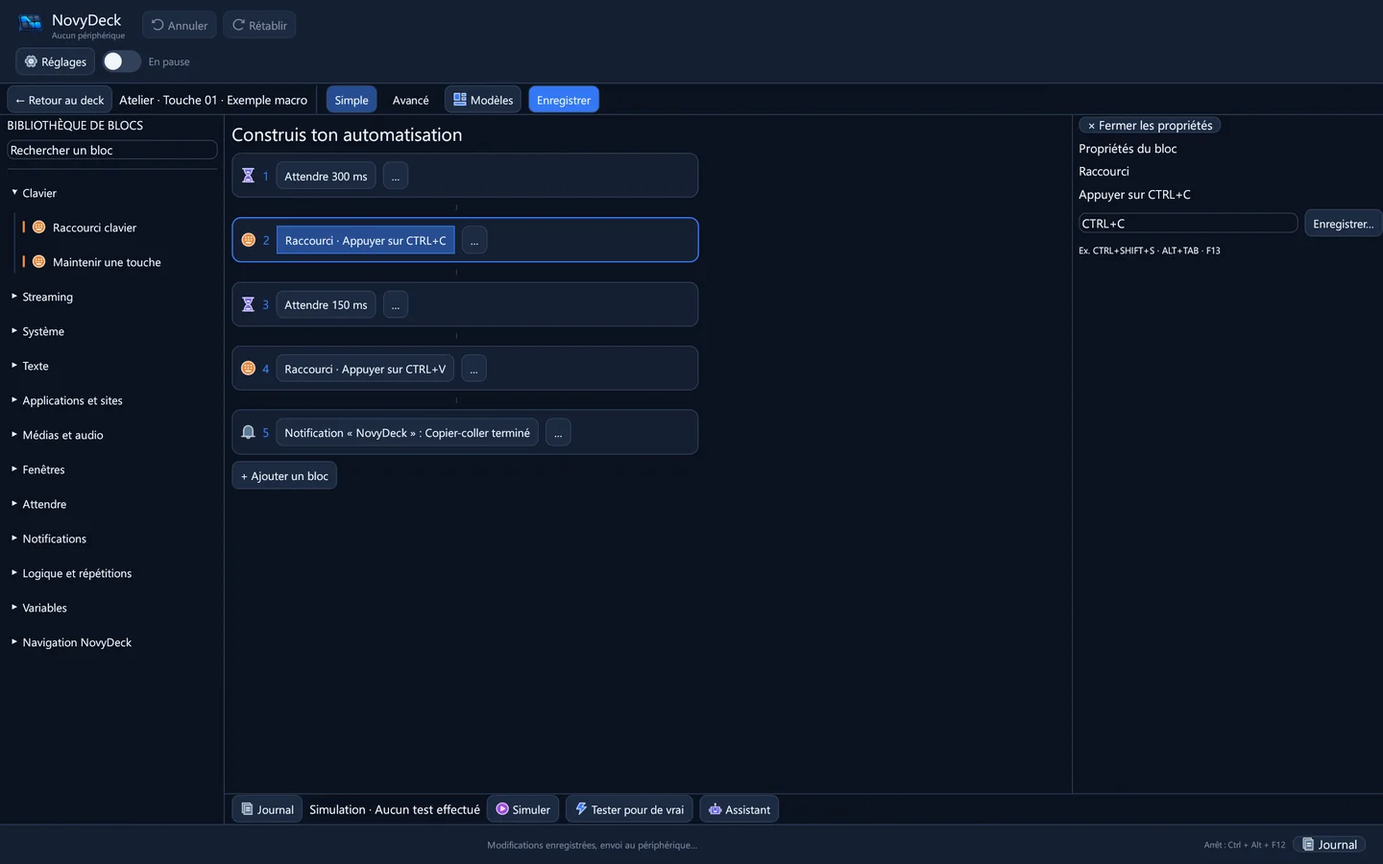
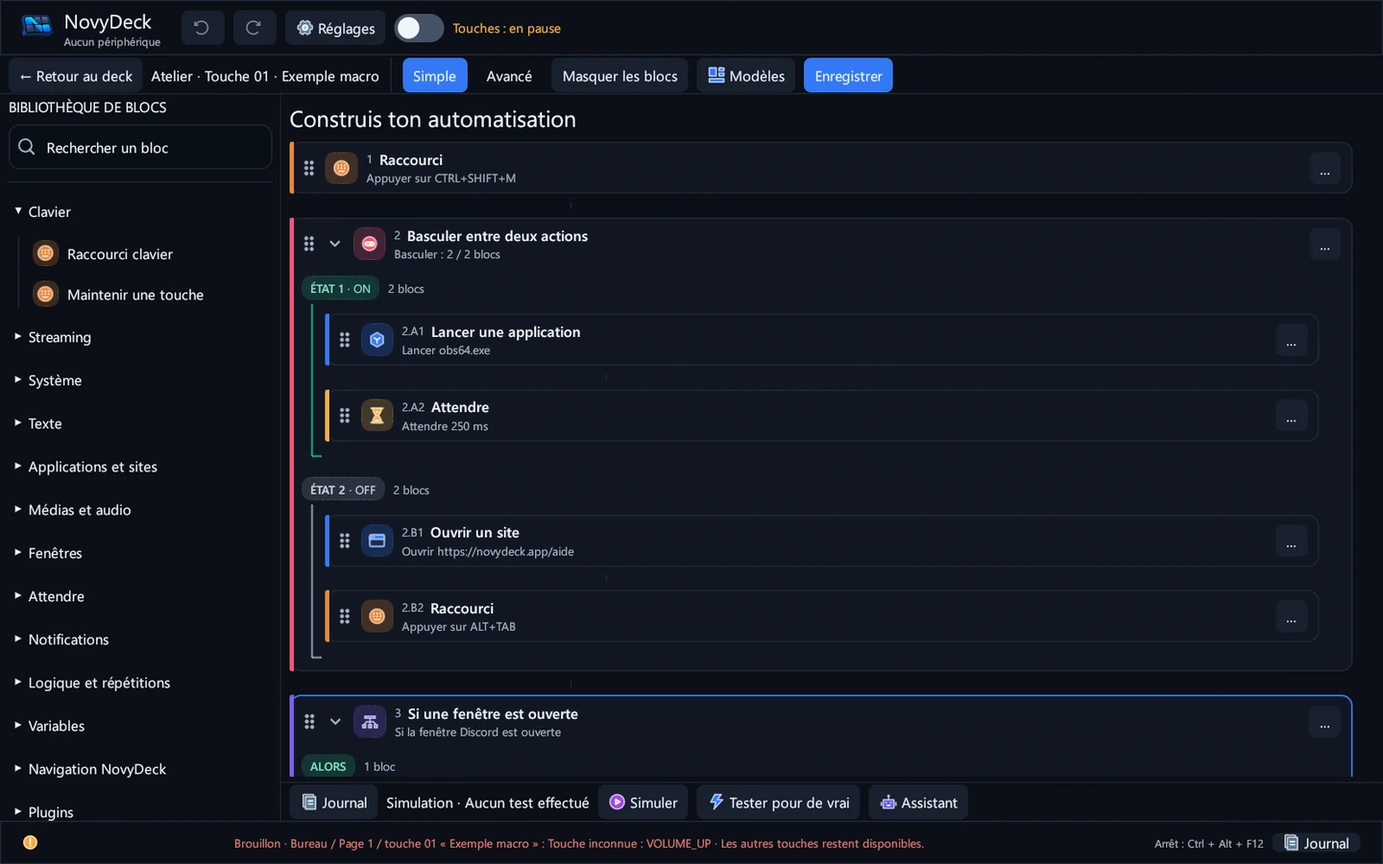
feat(website): present NovyDeck 0.16.0 Block Workshop redesign and hardware fixes

diff --git a/website/launch/src/components/LaunchExperience.tsx b/website/launch/src/components/LaunchExperience.tsx
@@ -8,8 +8,8 @@ import { ArrowDown, ArrowUpRight, Check, ChevronRight, Download, Menu, Pause, Pl
 import AnimationEngine from "./AnimationEngine";
 
 const DeckScene = dynamic(() => import("./DeckScene"), { ssr: false });
-const release = "https://github.com/HatiFlash/NovyDeck/releases/download/v0.15.1/NovyDeck-0.15.1-Setup.exe";
-const releases = "https://github.com/HatiFlash/NovyDeck/releases/tag/v0.15.1";
+const release = "https://github.com/HatiFlash/NovyDeck/releases/download/v0.16.0/NovyDeck-0.16.0-Setup.exe";
+const releases = "https://github.com/HatiFlash/NovyDeck/releases/tag/v0.16.0";
 const images = {
   keys: "assets/main-hi.webp",
   macros: "assets/atelier.webp",
@@ -25,7 +25,7 @@ const copy = {
   fr: {
     skip: "Aller au contenu", nav: ["Produit", "Fonctionnalités", "Atelier", "Plugins"],
     download: "Télécharger", preview: "Découvrir le produit", locale: "EN", menu: "Ouvrir le menu", close: "Fermer le menu",
-    heroOver: "NOVYDECK / V0.15.1 — WINDOWS", heroTitle1: "Votre deck.", heroTitle2: "Vos règles.",
+    heroOver: "NOVYDECK / V0.16.0 — WINDOWS", heroTitle1: "Votre deck.", heroTitle2: "Vos règles.",
     heroLead: "Donnez une forme à chaque idée. Une application native pour créer vos touches, orchestrer vos actions et étendre votre deck — sans renoncer au contrôle.",
     heroSupport: "FIFINE AmpliGame D6 · Elgato Stream Deck testés", heroCaption: "La liberté de créer, touche après touche.",
     scroll: "Défiler pour explorer", chapter: "CHAPITRE", productOver: "UN OUTIL, TOUT UN UNIVERS", productTitle: "Le bureau devient votre terrain de jeu.",
@@ -36,10 +36,13 @@ const copy = {
       { n: "03 / L’IDENTITÉ", title: "Une interface qui vous ressemble.", body: "Personnalisez les faces ON/OFF et choisissez votre thème. NovyDeck distingue l’état confirmé par un plugin d’une simple bascule locale.", note: "Aucun état inconnu n’est présenté comme confirmé." },
     ],
     sceneLabel: "Reconstitution 3D illustrative du FIFINE D6 · textures issues du projet", sceneFoot: "Interaction liée au défilement · sans vidéo simulant une interface",
-    showcaseOver: "VOIR, PUIS AGIR", showcaseTitle: "Le détail change tout.", showcaseLead: "Nouveauté 0.15.1 : choisissez Action 1 ou Action 2 dans Actions ON/OFF ; Action 1 conserve l’action précédente et Action 2 se configure sans ouvrir l’Atelier. Le menu « … » d’une action, à la racine comme dans un bloc Atelier imbriqué, ouvre Supprimer. Captures authentiques du harnais Windows, rendues hors écran ; aucune preuve d’essai sur D6 physique. Les huit onglets suivants conservent des vues historiques.",
+    showcaseOver: "VOIR, PUIS AGIR", showcaseTitle: "Le détail change tout.", showcaseLead: "Nouveauté 0.16.0 : refonte complète de l’Atelier de blocs (glisser-déposer intuitif avec poignée soignée et carte fantôme, cartes compactes et colorées par catégorie, branches visuelles repliables, recherche instantanée et favoris dans la bibliothèque) et correction matérielle des touches ON/OFF (suppression du rond rouge et du flash transitoire). Captures authentiques du harnais Windows, rendues hors écran ; aucune preuve d’essai sur D6 physique. Les onglets suivants conservent des vues historiques.",
     showcase: [
-      { label: "Actions ON/OFF", number: "01", title: "Deux actions, à portée de touche.", body: "Dans Actions ON/OFF, Action 1 conserve l’ancienne action ; configurez Action 2 sans passer par l’Atelier.", detail: "Capture authentique du harnais Windows, rendue hors écran ; aucun D6 physique connecté.", img: "assets/v0151-onoff-fr.webp", alt: "Capture hors écran authentique de NovyDeck 0.15.1 en français : page principale Actions ON/OFF avec Action 1 et Action 2 configurables." },
-      { label: "Supprimer dans l’Atelier", number: "02", title: "Supprimer depuis le menu d’action.", body: "Le menu « … » ouvre Supprimer, à la racine comme dans un bloc Atelier imbriqué.", detail: "Capture authentique du harnais Windows, rendue hors écran ; aucun D6 physique connecté.", img: "assets/v0151-workshop-fr.webp", alt: "Capture hors écran authentique de NovyDeck 0.15.1 en français : menu « … » d’un bloc Atelier imbriqué avec Supprimer." },
+      { label: "Atelier 0.16", number: "01", title: "L’Atelier de blocs repensé.", body: "Cartes compactes, pastille et liseré par catégorie, branches avec liaisons visuelles et conteneurs repliables.", detail: "Capture authentique du harnais Windows, rendue hors écran ; aucun D6 physique connecté.", img: "assets/v016-workshop-cards-fr.webp", alt: "Capture hors écran de NovyDeck 0.16.0 : Atelier de blocs avec cartes compactes et branches repliables." },
+      { label: "Glisser-déposer", number: "02", title: "Un déplacement fluide et naturel.", body: "Poignée discrète en points ronds, curseur grab/grabbing, carte fantôme et indicateur clair « Déposer ici » sans sélection parasite.", detail: "Capture authentique du harnais Windows, rendue hors écran ; aucun D6 physique connecté.", img: "assets/v016-workshop-dnd-fr.webp", alt: "Capture hors écran de NovyDeck 0.16.0 : glisser-déposer dans l’Atelier avec carte fantôme et emplacement de dépôt." },
+      { label: "Bibliothèque", number: "03", title: "Recherche instantanée et favoris.", body: "Recherche insensible aux accents et à la casse, blocs favoris épinglés en tête, et actions groupées par plugin avec bouton Réglages.", detail: "Capture authentique du harnais Windows, rendue hors écran ; aucun D6 physique connecté.", img: "assets/v016-workshop-library-fr.webp", alt: "Capture hors écran de NovyDeck 0.16.0 : bibliothèque de blocs avec recherche et actions de plugins." },
+      { label: "Actions ON/OFF", number: "04", title: "Deux actions, à portée de touche.", body: "Dans Actions ON/OFF, Action 1 conserve l’ancienne action ; configurez Action 2 sans passer par l’Atelier. Le rond rouge et le flash sont éliminés.", detail: "Capture authentique du harnais Windows, rendue hors écran ; aucun D6 physique connecté.", img: "assets/v0151-onoff-fr.webp", alt: "Capture hors écran authentique de NovyDeck en français : page principale Actions ON/OFF avec Action 1 et Action 2 configurables." },
+      { label: "Supprimer dans l’Atelier", number: "05", title: "Supprimer depuis le menu d’action.", body: "Le menu « … » ouvre Supprimer, à la racine comme dans un bloc Atelier imbriqué.", detail: "Capture authentique du harnais Windows, rendue hors écran ; aucun D6 physique connecté.", img: "assets/v0151-workshop-fr.webp", alt: "Capture hors écran authentique de NovyDeck 0.15.1 en français : menu « … » d’un bloc Atelier imbriqué avec Supprimer." },
       { label: "Assistant 0.15", number: "03", title: "Une proposition, à relire.", body: "L’assistant affiche une proposition sous forme de blocs ; vérifiez-la avant usage.", detail: "Capture hors écran ; la demande d’exemple est en français et aucun modèle n’est exécuté en direct.", img: "assets/v015-assistant-fr.webp", alt: "Capture française de l’assistant NovyDeck 0.15 avec demande d’exemple en français ; démonstration hors ligne, sans modèle en direct." },
       { label: "Précision plugin 0.15", number: "04", title: "Préciser la cible du plugin.", body: "L’assistant peut demander une précision avant de proposer une action de plugin.", detail: "Dialogue de démonstration hors ligne avec fixture SoundPad inerte ; aucune action réelle ni modèle en direct.", img: "assets/v015-question-fr.webp", alt: "Dialogue de clarification avec fixture plugin SoundPad inerte dans NovyDeck 0.15 ; démonstration hors ligne." },
       { label: "Apparence 0.15", number: "05", title: "Une apparence à votre mesure.", body: "Retrouvez les réglages d’apparence directement dans l’inspecteur.", detail: "Capture réelle de l’interface 0.15 en français, rendue hors écran ; aucun périphérique connecté.", img: "assets/v015-appearance-fr.webp", alt: "Capture hors écran des réglages Apparence de NovyDeck 0.15 en français, sans périphérique connecté." },
@@ -49,7 +52,7 @@ const copy = {
       { label: "Atelier 0.14", number: "09", title: "Glissez, imbriquez, dupliquez.", body: "Réorganisez les blocs par glisser-déposer, placez-les dans Alors, Sinon ou Répéter et maintenez Ctrl pour dupliquer pendant le glissement.", detail: "Capture réelle de l’Atelier en français, rendue hors écran ; aucun D6 physique testé.", img: "assets/v014-workshop-fr.webp", alt: "Capture française de l’Atelier 0.14 avec bibliothèque, blocs et branches Alors/Sinon" },
       { label: "Quoi de neuf", number: "10", title: "Une mise à jour, expliquée.", body: "L’interface actualisée présente les nouveautés dans une fenêtre Quoi de neuf et sépare téléchargement, vérification, installation et relance.", detail: "Capture réelle de la fenêtre Quoi de neuf 0.14.0 en français.", img: "assets/v014-whats-new-fr.webp", offer: "assets/v014-update-fr.webp", alt: "Fenêtre Quoi de neuf présentant les nouveautés 0.14.0" },
     ],
-    workflowOver: "ATELIER / 0.14.0", workflowTitle: "Glissez les blocs. Gardez la main.", workflowLead: "Réordonnez ou imbriquez les blocs dans Alors, Sinon ou Répéter ; maintenez Ctrl pendant le glissement pour dupliquer. Annulez ou rétablissez vos changements.",
+    workflowOver: "ATELIER / 0.16.0", workflowTitle: "Glissez les blocs. Gardez la main.", workflowLead: "Réordonnez ou imbriquez les blocs dans Alors, Sinon ou Répéter ; maintenez Ctrl pendant le glissement pour dupliquer. Annulez ou rétablissez vos changements.",
     flowLabels: ["Déclencheur", "Attendre", "Raccourci", "Condition", "Notification"], flowValues: ["Appui sur la touche", "300 ms", "Ctrl + C", "Application active ?", "Action terminée"],
     workflowNote: "Illustration de la logique de l’Atelier. Les blocs visibles dans la capture ci-dessous proviennent de l’application.", workflowShot: "Capture réelle de l’Atelier de blocs de NovyDeck.",
     themesOver: "APPARENCE", themesTitle: "Le fond change. Pas votre façon de travailler.", themesLead: "Un thème sombre pour la concentration, un thème clair pour la netteté. Le deck et vos images restent les vôtres.", dark: "Sombre", light: "Clair", themesAltDark: "Interface NovyDeck en thème sombre", themesAltLight: "Interface NovyDeck en thème clair", themeCaption: "Captures réelles du profil de démonstration.",
@@ -61,12 +64,12 @@ const copy = {
     bridgeOver: "VOTRE ENVIRONNEMENT, VOS CHOIX", bridgeTitle: "Des liens utiles. Pas une boîte noire.", bridgeLead: "Home Assistant et Google Assistant passent par des plugins. Le serveur MCP propose des opérations à votre client compatible ; l’utilisateur garde la validation.",
     bridgeNote: "Les intégrations tierces peuvent nécessiter leurs propres services et comptes.",
     filmOver: "LE FILM", filmTitle: "Voyez le produit prendre forme.", filmLead: "Un extrait 1080p de la vidéo officielle. Le D6 est une animation 3D ; les captures de l’application sont réelles.", play: "Lire le film", pause: "Mettre en pause",
-    ctaOver: "À VOUS DE JOUER", ctaTitle: "Donnez un nouveau sens à chaque touche.", ctaLead: "NovyDeck est libre et gratuit. Téléchargez l’installateur Windows 0.15.1 ou consultez les autres fichiers publiés.", other: "Autres téléchargements", ctaSmall: "Windows 10/11 · 64 bits · licence MIT · FIFINE D6 et Elgato Stream Deck testés", footer: "Logiciel libre. Conçu pour que chaque touche soit à vous.", source: "Code source", top: "Retour en haut", file: "Installateur Windows v0.15.1",
+    ctaOver: "À VOUS DE JOUER", ctaTitle: "Donnez un nouveau sens à chaque touche.", ctaLead: "NovyDeck est libre et gratuit. Téléchargez l’installateur Windows 0.16.0 ou consultez les autres fichiers publiés.", other: "Autres téléchargements", ctaSmall: "Windows 10/11 · 64 bits · licence MIT · FIFINE D6 et Elgato Stream Deck testés", footer: "Logiciel libre. Conçu pour que chaque touche soit à vous.", source: "Code source", top: "Retour en haut", file: "Installateur Windows v0.16.0",
   },
   en: {
     skip: "Skip to content", nav: ["Product", "Features", "Workshop", "Plugins"],
     download: "Download", preview: "Explore the product", locale: "FR", menu: "Open menu", close: "Close menu",
-    heroOver: "NOVYDECK / V0.15.1 — WINDOWS", heroTitle1: "Your deck.", heroTitle2: "Your rules.",
+    heroOver: "NOVYDECK / V0.16.0 — WINDOWS", heroTitle1: "Your deck.", heroTitle2: "Your rules.",
     heroLead: "Give every idea a place. A native app to design keys, orchestrate actions and extend your deck — while keeping control.",
     heroSupport: "FIFINE AmpliGame D6 · tested Elgato Stream Deck", heroCaption: "The freedom to create, one key at a time.",
     scroll: "Scroll to explore", chapter: "CHAPTER", productOver: "ONE TOOL, A WHOLE UNIVERSE", productTitle: "Make your desktop your playground.",
@@ -77,10 +80,13 @@ const copy = {
       { n: "03 / IDENTITY", title: "An interface that feels like yours.", body: "Customize ON/OFF key faces and pick a theme. NovyDeck distinguishes a plugin-confirmed state from a local toggle.", note: "An unknown state is never presented as confirmed." },
     ],
     sceneLabel: "Illustrative 3D reconstruction of the FIFINE D6 · textures from the project", sceneFoot: "Scroll-linked interaction · no simulated app video",
-    showcaseOver: "SEE, THEN DO", showcaseTitle: "The details make the difference.", showcaseLead: "New in 0.15.1: choose Action 1 or Action 2 under Actions ON/OFF; Action 1 keeps the previous action, and Action 2 can be configured without opening the Workshop. The action’s ‘…’ menu opens Delete at the root and inside a nested Workshop block. Authentic Windows harness captures rendered off-screen; they do not evidence testing on a physical D6. The eight following tabs retain historic views.",
+    showcaseOver: "SEE, THEN DO", showcaseTitle: "The details make the difference.", showcaseLead: "New in 0.16.0: complete Block Workshop redesign (intuitive drag-and-drop with grab handle and ghost card, compact category-colored cards, visual collapsible branches, instant search and favorites in the library) and hardware ON/OFF key fixes (elimination of the persistent red dot and transient flash). Authentic Windows harness captures rendered off-screen; they do not evidence testing on a physical D6. Following tabs retain historic views.",
     showcase: [
-      { label: "ON/OFF actions", number: "01", title: "Two actions, one key away.", body: "Under Actions ON/OFF, Action 1 keeps the previous action; configure Action 2 without opening the Workshop.", detail: "Authentic Windows harness capture rendered off-screen; no physical D6 connected.", img: "assets/v0151-onoff-en.webp", alt: "Authentic off-screen NovyDeck 0.15.1 English capture: main Actions ON/OFF page with configurable Action 1 and Action 2." },
-      { label: "Delete in Workshop", number: "02", title: "Delete from the action menu.", body: "The ‘…’ menu opens Delete at the root and inside a nested Workshop block.", detail: "Authentic Windows harness capture rendered off-screen; no physical D6 connected.", img: "assets/v0151-workshop-en.webp", alt: "Authentic off-screen NovyDeck 0.15.1 English capture: nested Workshop block ‘…’ menu with Delete." },
+      { label: "Workshop 0.16", number: "01", title: "Redesigned Block Workshop.", body: "Compact cards, category badge and accent trim, visually connected branches and collapsible containers.", detail: "Authentic Windows harness capture rendered off-screen; no physical D6 connected.", img: "assets/v016-workshop-cards-en.webp", alt: "Off-screen NovyDeck 0.16.0 capture: Block Workshop with compact cards and collapsible branches." },
+      { label: "Drag and Drop", number: "02", title: "Smooth and intuitive movement.", body: "Clean dot-grid grip handle, grab/grabbing cursors, ghost card and clear ‘Drop here’ slot without text selection.", detail: "Authentic Windows harness capture rendered off-screen; no physical D6 connected.", img: "assets/v016-workshop-dnd-en.webp", alt: "Off-screen NovyDeck 0.16.0 capture: drag-and-drop in the Workshop with ghost card and drop target." },
+      { label: "Library", number: "03", title: "Instant search and favorites.", body: "Case- and accent-insensitive search, pinned favorite blocks, and actions grouped by plugin with direct Settings button.", detail: "Authentic Windows harness capture rendered off-screen; no physical D6 connected.", img: "assets/v016-workshop-library-en.webp", alt: "Off-screen NovyDeck 0.16.0 capture: block library with search and plugin actions." },
+      { label: "ON/OFF actions", number: "04", title: "Two actions, one key away.", body: "Under Actions ON/OFF, Action 1 keeps the previous action; configure Action 2 without opening the Workshop. Red dot and flash eliminated.", detail: "Authentic Windows harness capture rendered off-screen; no physical D6 connected.", img: "assets/v0151-onoff-en.webp", alt: "Authentic off-screen NovyDeck English capture: main Actions ON/OFF page with configurable Action 1 and Action 2." },
+      { label: "Delete in Workshop", number: "05", title: "Delete from the action menu.", body: "The ‘…’ menu opens Delete at the root and inside a nested Workshop block.", detail: "Authentic Windows harness capture rendered off-screen; no physical D6 connected.", img: "assets/v0151-workshop-en.webp", alt: "Authentic off-screen NovyDeck 0.15.1 English capture: nested Workshop block ‘…’ menu with Delete." },
       { label: "Assistant 0.15", number: "03", title: "A proposal to review.", body: "The assistant presents a block proposal for you to review before use.", detail: "Offline capture; the example request is in French and no live model is running.", img: "assets/v015-assistant-en.webp", alt: "English NovyDeck 0.15 assistant UI capture with a French example request; offline demo, no live model." },
       { label: "Plugin clarification 0.15", number: "04", title: "Clarify the plugin target.", body: "The assistant can ask for clarification before proposing a plugin action.", detail: "Offline demo dialog with an inert SoundPad plugin fixture; no real action or live model.", img: "assets/v015-question-en.webp", alt: "Clarification dialog with inert SoundPad plugin fixture in NovyDeck 0.15; offline demo." },
       { label: "Appearance 0.15", number: "05", title: "An appearance that feels yours.", body: "Find appearance controls directly in the inspector.", detail: "Real off-screen English UI capture; no device connected.", img: "assets/v015-appearance-en.webp", alt: "Off-screen capture of NovyDeck 0.15 Appearance controls in English; no device connected." },
@@ -102,7 +108,7 @@ const copy = {
     bridgeOver: "YOUR SETUP, YOUR CHOICE", bridgeTitle: "Useful connections. No black box.", bridgeLead: "Home Assistant and Google Assistant work through plugins. The MCP server proposes operations to a compatible client; the user retains approval.",
     bridgeNote: "Third-party integrations may require their own services and accounts.",
     filmOver: "THE FILM", filmTitle: "Watch the product take shape.", filmLead: "A 1080p excerpt of the official film. The D6 is a 3D animation; app screenshots are real.", play: "Play film", pause: "Pause film",
-    ctaOver: "YOUR TURN", ctaTitle: "Make every key count.", ctaLead: "NovyDeck is free and open-source. Download the Windows 0.15.1 installer or browse the other published files.", other: "Other downloads", ctaSmall: "Windows 10/11 · 64-bit · MIT license · tested FIFINE D6 and Elgato Stream Deck", footer: "Open-source software. Made so every key belongs to you.", source: "Source code", top: "Back to top", file: "Windows installer v0.15.1",
+    ctaOver: "YOUR TURN", ctaTitle: "Make every key count.", ctaLead: "NovyDeck is free and open-source. Download the Windows 0.16.0 installer or browse the other published files.", other: "Other downloads", ctaSmall: "Windows 10/11 · 64-bit · MIT license · tested FIFINE D6 and Elgato Stream Deck", footer: "Open-source software. Made so every key belongs to you.", source: "Source code", top: "Back to top", file: "Windows installer v0.16.0",
   },
 };
 

diff --git a/website/index.html b/website/index.html
@@ -130,7 +130,7 @@
             <a class="button-primary" href="#telecharger"><svg viewBox="0 0 24 24" fill="none" stroke="currentColor" stroke-width="1.8" aria-hidden="true"><path d="M12 3v12m-4-4 4 4 4-4M4 17v2h16v-2" stroke-linecap="round" stroke-linejoin="round"/></svg><span data-fr="Télécharger NovyDeck" data-en="Download NovyDeck">Télécharger NovyDeck</span></a>
             <a class="button-quiet" href="#features"><span data-fr="Découvrir l’application" data-en="Explore the app">Découvrir l’application</span><svg viewBox="0 0 24 24" fill="none" stroke="currentColor" stroke-width="1.8" aria-hidden="true"><path d="m5 12 14 0m-6-6 6 6-6 6" stroke-linecap="round" stroke-linejoin="round"/></svg></a>
           </div>
-          <div class="hero-meta"><span data-fr="Windows 10 / 11" data-en="Windows 10 / 11">Windows 10 / 11</span><span data-fr="Licence MIT" data-en="MIT licensed">Licence MIT</span><span data-fr="Version 0.15.1" data-en="Version 0.15.1">Version 0.15.1</span></div>
+          <div class="hero-meta"><span data-fr="Windows 10 / 11" data-en="Windows 10 / 11">Windows 10 / 11</span><span data-fr="Licence MIT" data-en="MIT licensed">Licence MIT</span><span data-fr="Version 0.16.0" data-en="Version 0.16.0">Version 0.16.0</span></div>
         </div>
         <div class="product-stage">
           <div class="stage-browser" tabindex="0" role="group" aria-label="Aperçu NovyDeck" data-aria-fr="Aperçu NovyDeck" data-aria-en="NovyDeck preview"><div class="browser-bar" aria-hidden="true"><i></i><i></i><i></i><span>NovyDeck</span></div><img src="assets/app.webp" width="1840" height="1150" alt="Interface réelle de NovyDeck : profil de démonstration et touches du deck" data-alt-fr="Interface réelle de NovyDeck : profil de démonstration et touches du deck" data-alt-en="Real NovyDeck interface: demo profile and deck keys" fetchpriority="high"><div class="window-lens"><strong data-fr="Un deck, vos choix" data-en="Your deck, your choices">Un deck, vos choix</strong><span data-fr="Explorez les touches et leurs actions dans la vraie interface." data-en="Explore keys and actions in the real interface.">Explorez les touches et leurs actions dans la vraie interface.</span></div></div>
@@ -191,7 +191,7 @@
         </div>
       </div>
     </section>
-    <section class="video-section" id="apercu" aria-labelledby="video-title"><div class="wrap video-layout"><div><span class="section-kicker" data-fr="En images" data-en="Watch it in action">En images</span><h2 class="section-title" id="video-title" data-fr="Regardez NovyDeck prendre vie." data-en="See NovyDeck come to life.">Regardez NovyDeck prendre vie.</h2><p class="section-lead" data-fr="Quarante secondes pour découvrir le pavé, les touches et l’interface. Les captures du logiciel sont réelles ; la présentation du D6 est une animation 3D." data-en="A 40-second look at the deck, its keys and the app. Software captures are real; the D6 presentation is a 3D animation.">Quarante secondes pour découvrir le pavé, les touches et l’interface. Les captures du logiciel sont réelles ; la présentation du D6 est une animation 3D.</p><a class="text-link" href="https://github.com/HatiFlash/NovyDeck/releases/tag/v0.15.1" target="_blank" rel="noopener noreferrer"><span data-fr="Voir la version publiée" data-en="View the published release">Voir la version publiée</span><svg viewBox="0 0 24 24" fill="none" stroke="currentColor" stroke-width="1.8" aria-hidden="true"><path d="M5 12h14m-6-6 6 6-6 6" stroke-linecap="round" stroke-linejoin="round"/></svg></a></div><a class="video-cover" href="https://github.com/HatiFlash/NovyDeck/releases/download/v0.15.1/NovyDeck-0.15.1-Presentation.mp4" target="_blank" rel="noopener noreferrer" aria-label="Voir la vidéo de présentation NovyDeck (MP4)" data-aria-fr="Voir la vidéo de présentation NovyDeck (MP4)" data-aria-en="Watch the NovyDeck presentation video (MP4)"><img src="assets/video-poster.webp" width="1280" height="720" loading="lazy" alt="Affiche du film de présentation NovyDeck"><span class="play" aria-hidden="true"><svg viewBox="0 0 24 24" fill="currentColor"><path d="m7 4 13 8-13 8z"/></svg></span></a></div></section>
+    <section class="video-section" id="apercu" aria-labelledby="video-title"><div class="wrap video-layout"><div><span class="section-kicker" data-fr="En images" data-en="Watch it in action">En images</span><h2 class="section-title" id="video-title" data-fr="Regardez NovyDeck prendre vie." data-en="See NovyDeck come to life.">Regardez NovyDeck prendre vie.</h2><p class="section-lead" data-fr="Quarante secondes pour découvrir le pavé, les touches et l’interface. Les captures du logiciel sont réelles ; la présentation du D6 est une animation 3D." data-en="A 40-second look at the deck, its keys and the app. Software captures are real; the D6 presentation is a 3D animation.">Quarante secondes pour découvrir le pavé, les touches et l’interface. Les captures du logiciel sont réelles ; la présentation du D6 est une animation 3D.</p><a class="text-link" href="https://github.com/HatiFlash/NovyDeck/releases/tag/v0.16.0" target="_blank" rel="noopener noreferrer"><span data-fr="Voir la version publiée" data-en="View the published release">Voir la version publiée</span><svg viewBox="0 0 24 24" fill="none" stroke="currentColor" stroke-width="1.8" aria-hidden="true"><path d="M5 12h14m-6-6 6 6-6 6" stroke-linecap="round" stroke-linejoin="round"/></svg></a></div><a class="video-cover" href="https://github.com/HatiFlash/NovyDeck/releases/download/v0.16.0/NovyDeck-0.16.0-Presentation.mp4" target="_blank" rel="noopener noreferrer" aria-label="Voir la vidéo de présentation NovyDeck (MP4)" data-aria-fr="Voir la vidéo de présentation NovyDeck (MP4)" data-aria-en="Watch the NovyDeck presentation video (MP4)"><img src="assets/video-poster.webp" width="1280" height="720" loading="lazy" alt="Affiche du film de présentation NovyDeck"><span class="play" aria-hidden="true"><svg viewBox="0 0 24 24" fill="currentColor"><path d="m7 4 13 8-13 8z"/></svg></span></a></div></section>
     <section class="capabilities" id="toutes-les-fonctions" aria-labelledby="capabilities-title">
       <div class="wrap">
         <span class="section-kicker" data-fr="Plus qu’un éditeur de touches" data-en="More than a key editor">Plus qu’un éditeur de touches</span>
@@ -232,7 +232,7 @@
       </div>
     </section>
     <section class="section inset" id="compatibilite" aria-labelledby="compat-title"><div class="wrap"><div class="compat-head"><div><span class="section-kicker" data-fr="À savoir avant d’installer" data-en="Before you install">À savoir avant d’installer</span><h2 class="section-title" id="compat-title" data-fr="Pensé pour votre PC. Clair sur le matériel." data-en="Made for your PC. Clear about hardware.">Pensé pour votre PC. Clair sur le matériel.</h2></div><p class="section-lead" data-fr="Une application Windows native en Rust et egui. NovyDeck a été testé avec le FIFINE AmpliGame D6 et l’Elgato Stream Deck ; les autres modèles ne sont pas encore garantis." data-en="A native Windows app built with Rust and egui. NovyDeck has been tested with the FIFINE AmpliGame D6 and Elgato Stream Deck; other models aren't guaranteed yet.">Une application Windows native en Rust et egui. NovyDeck a été testé avec le FIFINE AmpliGame D6 et l’Elgato Stream Deck ; les autres modèles ne sont pas encore garantis.</p></div><div class="compat-grid"><div class="compat-cell"><span class="small" data-fr="Système" data-en="System">Système</span><strong>Windows 10 / 11</strong><p data-fr="64 bits · installation par utilisateur ou archive portable." data-en="64-bit · per-user installer or portable archive.">64 bits · installation par utilisateur ou archive portable.</p></div><div class="compat-cell"><span class="small" data-fr="Périphériques testés" data-en="Tested devices">Périphériques testés</span><strong>FIFINE D6 · Elgato</strong><p data-fr="D6 à 15 touches et modèles Elgato Stream Deck testés." data-en="15-key D6 and tested Elgato Stream Deck models.">D6 à 15 touches et modèles Elgato Stream Deck testés.</p></div><div class="compat-cell"><span class="small" data-fr="Code ouvert" data-en="Open source">Code ouvert</span><strong>Rust · MIT</strong><p data-fr="Code source, historique et suivi des problèmes publics." data-en="Public source code, history and issue tracking.">Code source, historique et suivi des problèmes publics.</p></div></div></div></section>
-    <section class="download-section" id="telecharger" aria-labelledby="download-title"><div class="wrap"><span class="section-kicker" data-fr="C’est à vous de jouer" data-en="Your turn">C’est à vous de jouer</span><h2 class="section-title" id="download-title" data-fr="Prêt à faire vôtre chaque touche ?" data-en="Ready to make every key yours?">Prêt à faire vôtre chaque touche ?</h2><p data-fr="Téléchargez l’installateur Windows ou choisissez l’archive portable depuis la dernière version publiée. Vos profils et médias sont conservés lors d’une mise à jour." data-en="Download the Windows installer or choose the portable archive from the latest release. Your profiles and media are preserved on update.">Téléchargez l’installateur Windows ou choisissez l’archive portable depuis la dernière version publiée. Vos profils et médias sont conservés lors d’une mise à jour.</p><div class="section-actions"><a class="button-primary" href="https://github.com/HatiFlash/NovyDeck/releases/download/v0.15.1/NovyDeck-0.15.1-Setup.exe"><svg viewBox="0 0 24 24" fill="none" stroke="currentColor" stroke-width="1.8" aria-hidden="true"><path d="M12 3v12m-4-4 4 4 4-4M4 17v2h16v-2" stroke-linecap="round" stroke-linejoin="round"/></svg><span data-fr="Télécharger l’installateur · v0.15.1" data-en="Download installer · v0.15.1">Télécharger l’installateur · v0.15.1</span></a><a class="button-quiet" href="https://github.com/HatiFlash/NovyDeck/releases/latest" target="_blank" rel="noopener noreferrer" data-fr="Autres téléchargements" data-en="Other downloads">Autres téléchargements</a></div><div class="download-foot"><span data-fr="Windows 10/11 · 64 bits · installation sans droits administrateur." data-en="Windows 10/11 · 64-bit · no admin rights needed to install.">Windows 10/11 · 64 bits · installation sans droits administrateur.</span> <a href="https://github.com/HatiFlash/NovyDeck" target="_blank" rel="noopener noreferrer" data-fr="Voir le code source" data-en="View source code">Voir le code source</a></div></div></section>
+    <section class="download-section" id="telecharger" aria-labelledby="download-title"><div class="wrap"><span class="section-kicker" data-fr="C’est à vous de jouer" data-en="Your turn">C’est à vous de jouer</span><h2 class="section-title" id="download-title" data-fr="Prêt à faire vôtre chaque touche ?" data-en="Ready to make every key yours?">Prêt à faire vôtre chaque touche ?</h2><p data-fr="Téléchargez l’installateur Windows ou choisissez l’archive portable depuis la dernière version publiée. Vos profils et médias sont conservés lors d’une mise à jour." data-en="Download the Windows installer or choose the portable archive from the latest release. Your profiles and media are preserved on update.">Téléchargez l’installateur Windows ou choisissez l’archive portable depuis la dernière version publiée. Vos profils et médias sont conservés lors d’une mise à jour.</p><div class="section-actions"><a class="button-primary" href="https://github.com/HatiFlash/NovyDeck/releases/download/v0.16.0/NovyDeck-0.16.0-Setup.exe"><svg viewBox="0 0 24 24" fill="none" stroke="currentColor" stroke-width="1.8" aria-hidden="true"><path d="M12 3v12m-4-4 4 4 4-4M4 17v2h16v-2" stroke-linecap="round" stroke-linejoin="round"/></svg><span data-fr="Télécharger l’installateur · v0.16.0" data-en="Download installer · v0.16.0">Télécharger l’installateur · v0.16.0</span></a><a class="button-quiet" href="https://github.com/HatiFlash/NovyDeck/releases/latest" target="_blank" rel="noopener noreferrer" data-fr="Autres téléchargements" data-en="Other downloads">Autres téléchargements</a></div><div class="download-foot"><span data-fr="Windows 10/11 · 64 bits · installation sans droits administrateur." data-en="Windows 10/11 · 64-bit · no admin rights needed to install.">Windows 10/11 · 64 bits · installation sans droits administrateur.</span> <a href="https://github.com/HatiFlash/NovyDeck" target="_blank" rel="noopener noreferrer" data-fr="Voir le code source" data-en="View source code">Voir le code source</a></div></div></section>
     <section class="faq" id="questions" aria-labelledby="faq-title"><div class="wrap faq-layout"><div><span class="section-kicker">FAQ</span><h2 class="section-title" id="faq-title" data-fr="Les réponses, sans détour." data-en="The short answers.">Les réponses, sans détour.</h2></div><div class="faq-list"><details><summary data-fr="NovyDeck est-il gratuit ?" data-en="Is NovyDeck free?">NovyDeck est-il gratuit ?</summary><p data-fr="Oui. NovyDeck est un logiciel libre publié sous licence MIT. Son code source est consultable sur GitHub." data-en="Yes. NovyDeck is open-source software under the MIT license. You can inspect the source on GitHub.">Oui. NovyDeck est un logiciel libre publié sous licence MIT. Son code source est consultable sur GitHub.</p></details><details><summary data-fr="Quels decks sont pris en charge ?" data-en="Which decks are supported?">Quels decks sont pris en charge ?</summary><p data-fr="Le FIFINE AmpliGame D6 et l’Elgato Stream Deck ont été testés. D’autres decks basés sur Mirabox pourraient fonctionner, mais ne sont pas encore validés." data-en="The FIFINE AmpliGame D6 and Elgato Stream Deck have been tested. Other Mirabox-based decks may work, but haven't been validated yet.">Le FIFINE AmpliGame D6 et l’Elgato Stream Deck ont été testés. D’autres decks basés sur Mirabox pourraient fonctionner, mais ne sont pas encore validés.</p></details><details><summary data-fr="Mes profils restent-ils après une mise à jour ?" data-en="Will an update keep my profiles?">Mes profils restent-ils après une mise à jour ?</summary><p data-fr="Oui, l’installateur met à jour les exécutables en conservant vos profils, médias et plugins. Pour la version portable, remplacez les exécutables sans supprimer vos fichiers personnels." data-en="Yes. The installer updates the executables while preserving your profiles, media and plugins. For the portable version, replace the executables without deleting personal files.">Oui, l’installateur met à jour les exécutables en conservant vos profils, médias et plugins. Pour la version portable, remplacez les exécutables sans supprimer vos fichiers personnels.</p></details><details><summary data-fr="Faut-il une connexion ou une IA ?" data-en="Do I need an account or AI?">Faut-il une connexion ou une IA ?</summary><p data-fr="L’assistant local est facultatif et désactivé par défaut. Le magasin de plugins se connecte après votre accord pour consulter ou installer des plugins. Certaines actions de plugins peuvent dépendre de services tiers." data-en="The local assistant is optional and off by default. The plugin store connects with your consent to browse or install plugins. Some plugin actions may depend on third-party services.">L’assistant local est facultatif et désactivé par défaut. Le magasin de plugins se connecte après votre accord pour consulter ou installer des plugins. Certaines actions de plugins peuvent dépendre de services tiers.</p></details></div></div></section>
   </main>
   <footer class="footer"><div class="footer-inner wrap"><div><a class="brand" href="#top"><img src="assets/novydeck-logo.webp" alt="" width="23" height="23">NovyDeck</a><p data-fr="Un projet libre pour donner plus de sens à chaque touche." data-en="An open-source project that makes every key count.">Un projet libre pour donner plus de sens à chaque touche.</p></div><div class="footer-links"><a href="https://github.com/HatiFlash/NovyDeck" target="_blank" rel="noopener noreferrer">GitHub</a><a href="https://github.com/HatiFlash/NovyDeck/releases/latest" target="_blank" rel="noopener noreferrer" data-fr="Versions" data-en="Releases">Versions</a><a href="https://github.com/HatiFlash/NovyDeck/issues" target="_blank" rel="noopener noreferrer" data-fr="Signaler un problème" data-en="Report an issue">Signaler un problème</a><a href="https://github.com/HatiFlash/NovyDeck/blob/main/LICENSE" target="_blank" rel="noopener noreferrer">MIT</a></div></div></footer>
